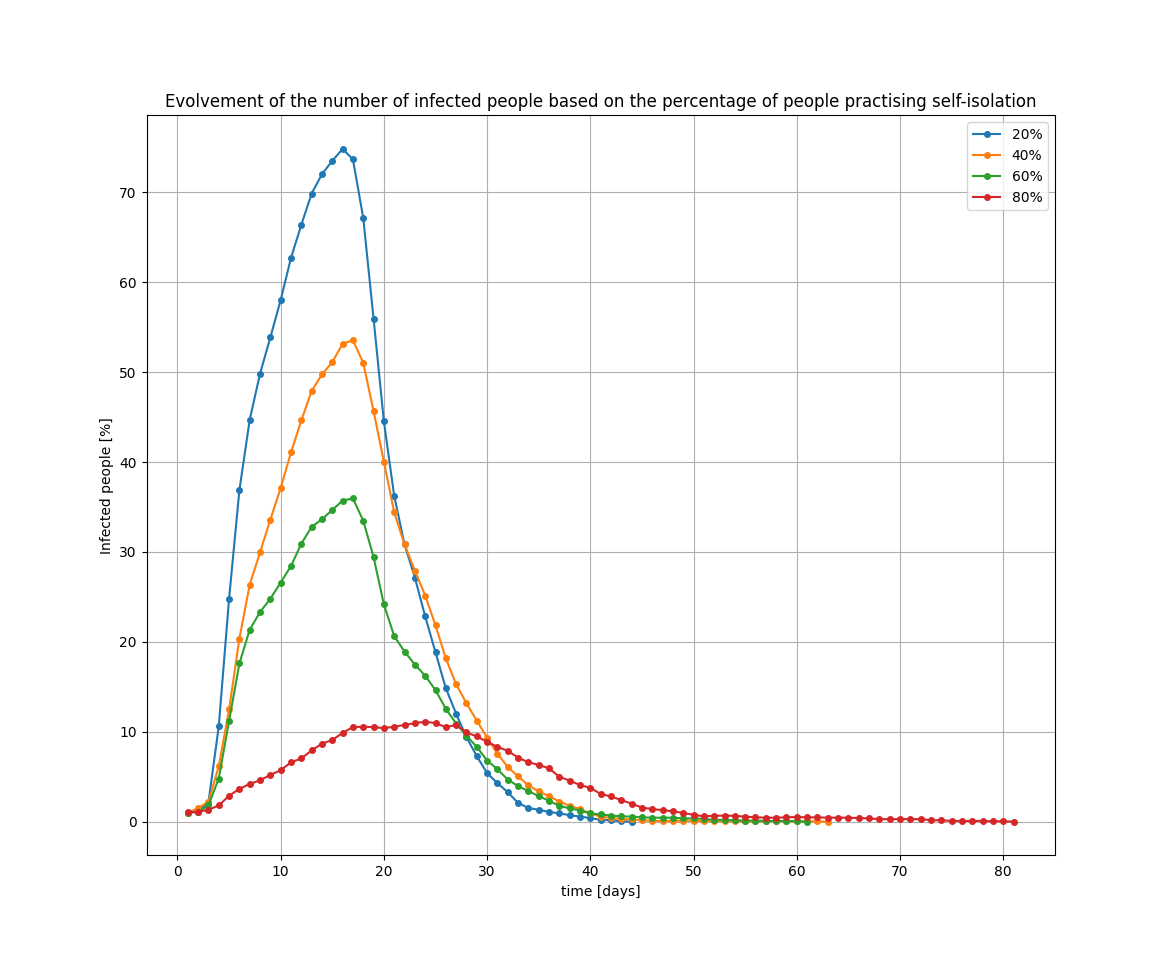
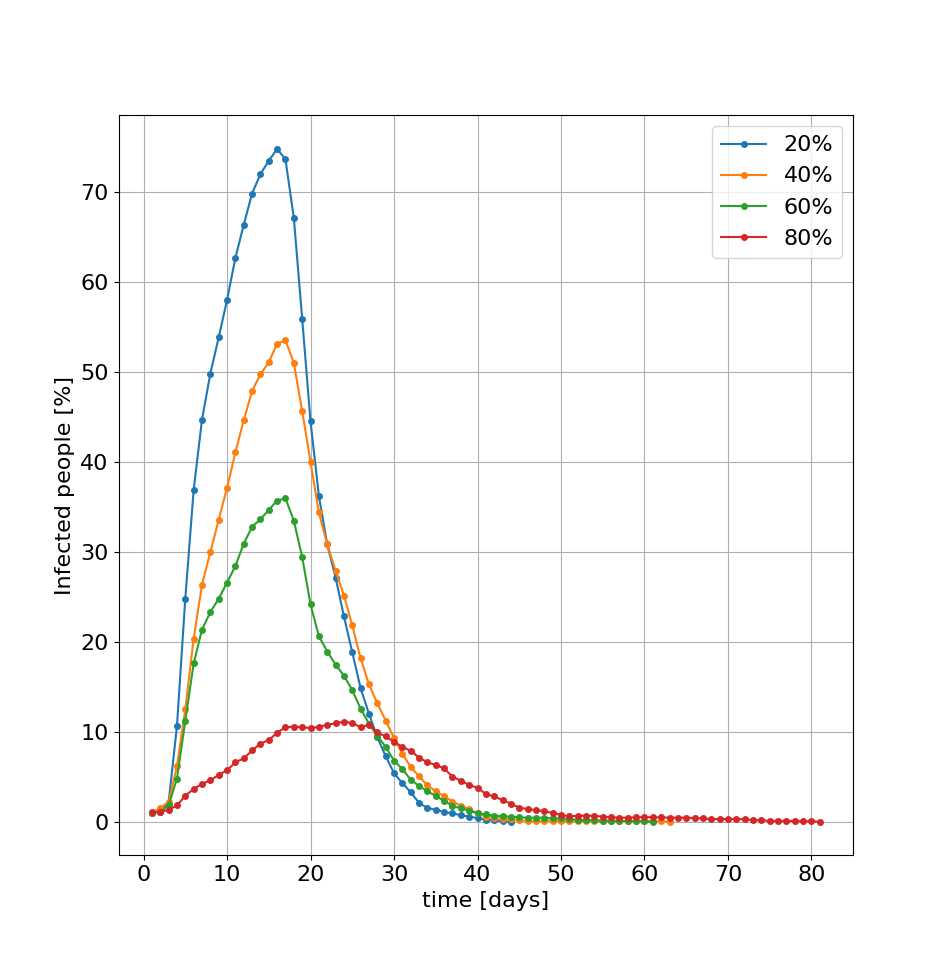
Backup

diff --git a/src/gui/statistics_window.cpp b/src/gui/statistics_window.cpp
@@ -26,7 +26,7 @@ namespace kiv_vss::gui
 
         ImGui::Separator();
 
-        ImGui::Text("Infected people (peek) = %.2f [%%]", Get_Percentage_People(m_simulation->Get_Maximum_Number_Of_Infected_People()));
+        ImGui::Text("Infected people (peak) = %.2f [%%]", Get_Percentage_People(m_simulation->Get_Maximum_Number_Of_Infected_People()));
         ImGui::Text("Total fatality rate = %.2f [%%]", Get_Number_Of_People_Percentage(statistics.number_of_fatalities));
         ImGui::Text("Number of contractions per person = %.2f", statistics.time.empty() ? 0.0 : statistics.number_of_contractions_per_person.back());
 

diff --git a/src/simulation/simulation.h b/src/simulation/simulation.h
@@ -122,7 +122,7 @@ namespace kiv_vss
         TStatistics m_statistics;                           ///< Statistical values measured throughout the simulation
         std::size_t m_time;                                 ///< Time (it increases with each update of the simulation)
         bool m_system_saturated;                            ///< Flag indicating whether the system is saturated or not
-        std::size_t m_max_number_of_infected_people;        ///< Peek in the number of infected people
+        std::size_t m_max_number_of_infected_people;        ///< Peak in the number of infected people
     };
 }
 

diff --git a/misc/scripts/infected_chart.py b/misc/scripts/infected_chart.py
@@ -31,10 +31,11 @@ def plot_data(data):
 
     plt.grid(axis='y')
     plt.grid(axis='x')
-    plt.title('Evolvement of the number of infected people based on the percentage of people practising self-isolation')
     plt.legend()
     plt.show()
     
+    
+plt.rcParams.update({'font.size': 16})
 
 load_data('20')
 load_data('40')

diff --git a/misc/scripts/popular_locations.py b/misc/scripts/popular_locations.py
@@ -37,10 +37,10 @@ def plot_data(data):
 
     plt.grid(axis='y')
     plt.grid(axis='x')
-    plt.title('Evolvement of the number of infected people with different distances between 4 popular locations')
     plt.legend()
     plt.show()
     
+plt.rcParams.update({'font.size': 16})
 
 load_data('1250')
 load_data('1500')

diff --git a/misc/scripts/dead_chart.py b/misc/scripts/dead_chart.py
@@ -34,10 +34,10 @@ def plot_data(data):
 
     ax.set_axisbelow(True)
     ax.grid(axis='y')
-    plt.title('Fatality rate based on the percentage of people practising self-isolation')
     plt.legend()
     plt.show()
     
+plt.rcParams.update({'font.size': 16})
 
 load_data('20')
 load_data('40')

diff --git a/misc/scripts/immunity.py b/misc/scripts/immunity.py
@@ -32,10 +32,10 @@ def plot_data(data):
 
     plt.grid(axis='y')
     plt.grid(axis='x')
-    plt.title('Comparision of different immunity periods')
     plt.legend()
     plt.show()
     
+plt.rcParams.update({'font.size': 16})
 
 load_data('01')
 load_data('14')
